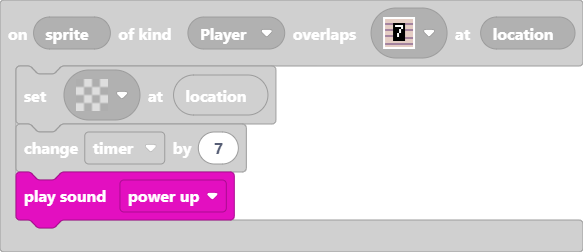
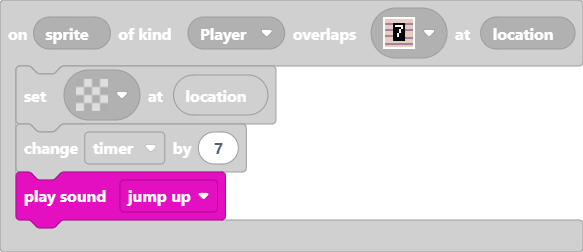
Update main.blocks, main.ts

Changed region(s): [[0.2161, 0.6667, 0.4014, 0.8889]]

diff --git a/main.ts b/main.ts
@@ -28,7 +28,7 @@ scene.onOverlapTile(SpriteKind.Player, assets.tile`myTile16`, function (sprite, 
 scene.onOverlapTile(SpriteKind.Player, assets.tile`myTile20`, function (sprite, location) {
     tiles.setTileAt(location, assets.tile`transparency16`)
     timer += 7
-    music.powerUp.play()
+    music.jumpUp.play()
 })
 scene.onOverlapTile(SpriteKind.Player, grafxkid.blueBrickBlock, function (sprite, location) {
     music.jumpUp.play()
